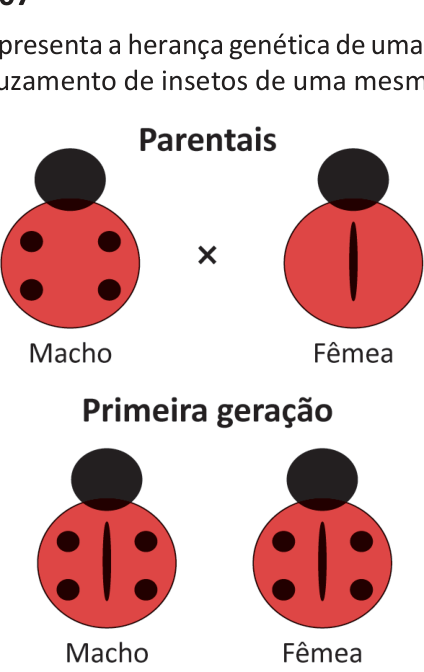
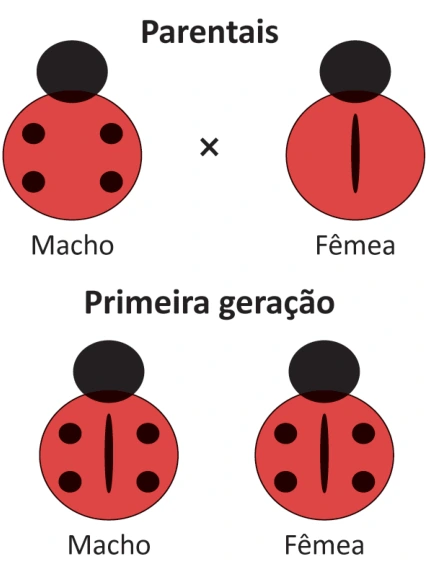
Ajusta recortes e revela o assunto junto com a resolução

diff --git a/index.html b/index.html
@@ -216,5 +216,5 @@ try {
   </details>
 </dialog>
 <button id="lightLauncher" class="light-launcher" type="button" aria-haspopup="dialog" aria-controls="lightFlashDialog" aria-expanded="false"><span aria-hidden="true">◇</span><span>Uma carta</span></button><dialog id="lightFlashDialog" class="light-flash-dialog" aria-label="Flashcards momentâneos"><div id="lightFlashRoot"></div></dialog>
-<button id="pageBack" class="page-back" type="button" aria-label="Voltar à página anterior" disabled><span aria-hidden="true">←</span><span>Voltar</span></button><dialog id="eveDictionary" aria-labelledby="eveDictionaryTitle"><header class="eve-dict-header"><div class="eve-dict-title"><h2 id="eveDictionaryTitle">Dicionário de leitura</h2><button type="button" id="eveDictClose" class="quiet" aria-label="Fechar dicionário">×</button></div><label for="eveDictSearch">Qual conceito tu quer entender?</label><input id="eveDictSearch" type="search" autocomplete="off" placeholder="Finalidade, rubrica, inferência…"><label for="eveDictKind">Tipo de cartão</label><select id="eveDictKind"><option value="all">Todos</option><option value="conceito">Conceitos</option><option value="genero">Gêneros</option><option value="recurso">Recursos de linguagem</option></select><p id="eveDictCount" role="status" aria-live="polite"></p></header><div id="eveDictResults"></div><footer>Definições e exemplos didáticos autorais. Consulta de apoio, sem alterar respostas.</footer></dialog><dialog id="dia2QuickGuide" aria-labelledby="d2QuickTitle"></dialog><dialog id="mlDialog" aria-labelledby="mlDialogTitle"></dialog><div id="toast" role="status" hidden></div><script src="study-settings.js?v=20261109-prisma"></script><script src="study-biology-data.js?v=20261110-biomas-heredogramas"></script><script src="study-basics-data.js?v=20261110-biologia"></script><script src="study-guide.js?v=20261110-guia-basico"></script><script src="choice-elimination.js?v=20261105-guia"></script><script src="offline-data.js?v=20261019-level-up"></script><script src="skills-data.js?v=20261019-level-up"></script><script src="flashcards-data.js?v=20261019-level-up"></script><script src="biology-data.js?v=20261020-bio-fuvest"></script><script src="flashcards.js?v=20261019-level-up"></script><script src="math-lessons.js?v=20261022-matrix-operations"></script><script src="skills.js?v=20261022-matrix-operations"></script><script src="readings-data.js?v=20261019-level-up"></script><script src="readings.js?v=20261105-linguagens"></script><script src="reading-media.js?v=20261104-perfis"></script><script src="linguagens.js?v=20261105-linguagens"></script><script src="portraits-data.js?v=20261106-guia-leitura"></script><script src="biblioteca-guia.js?v=20261108-redacao"></script><script src="thinkers.js?v=20261108-consulta"></script><script src="prisma.js?v=20261109-prisma"></script><script src="experience.js?v=20261109-prisma"></script><script src="profile.js?v=20261019-level-up"></script><script src="enem-data.js?v=20261020-fuvest-enem-completo"></script><script src="fuvest-data.js?v=20261020-bio-fuvest"></script><script src="enem-subjects-data.js?v=20261023-subjects"></script><script src="exam-subjects.js?v=20261111-natureza"></script><script src="fuvest.js?v=20261105-linguagens"></script><script src="enem-presentation-data.js?v=20261106-enunciado"></script><script src="enem-natureza-revisao-data.js?v=20261111-natureza"></script><script src="enem-layout.js?v=20261111-natureza"></script><script src="enem-solutions.js?v=20261104-biblioteca"></script><script src="linguagens-solutions.js?v=20261105-linguagens"></script><script src="enem.js?v=20261111-natureza"></script><script src="enem-sim.js?v=20261111-natureza"></script><script src="levelup-data.js?v=20261104-rounds"></script><script src="levelup.js?v=20261105-linguagens"></script><script src="study-areas.js?v=20261110-biologia-trilha"></script><script src="navigation.js?v=20261109-aulas"></script><script src="light-review-data.js?v=20261103-lockin"></script><script src="day1-practice-data.js?v=20261105-guia"></script><script src="day1-practice.js?v=20261103-day1"></script><script src="light-review.js?v=20261104-groups"></script><script src="enem-anatomy-data.js?v=20261103-anatomy"></script><script src="enem-anatomy.js?v=20261103-anatomy"></script><script src="vespera-data.js?v=20261106-vespera"></script><script src="vespera-percurso-data.js?v=20261107-percurso"></script><script src="vespera-repertorios-data.js?v=20261108-desenvolvimento"></script><script src="enem-exclusivas-data.js?v=1"></script><script src="vespera.js?v=20261110-exclusivas"></script><script src="consulta-rapida.js?v=20261110-busca"></script><script src="dia2-guia-data.js?v=20261110-transmissao"></script><script src="dia2-biologia-data.js?v=20261110-biomas-heredogramas"></script><script src="dia2-aulas-data.js?v=20261110-biomas-heredogramas"></script><script src="dia2-mapas-data.js?v=20261110-biomas-heredogramas"></script><script src="dia2-aulas-labs.js?v=20261109-aulas"></script><script src="dia2-conceitos-data.js?v=20261109-conceitos"></script><script src="enem-natureza-niveis.js?v=20261109-dificuldade-cn"></script><script src="dia2-conceitos.js?v=20261109-conceitos"></script><script src="dia2-mapas.js?v=20261110-passo-a-passo"></script><script src="dia2-conversoes.js?v=20261110-grandezas"></script><script src="dia2-temperatura.js?v=20261110-oficina"></script><script src="estudo-calor.js?v=1"></script><script src="estudo-labs.js?v=20261110-transmissao"></script><script src="estudo-dados.js?v=20261110-biomas-heredogramas"></script><script src="estudo.js?v=20261110-biologia-trilha"></script><script src="dia2-aulas.js?v=20261110-biomas-heredogramas"></script><script src="dia2-resolucoes-data.js?v=20261110-resolucoes"></script><script src="dia2-questoes-data.js?v=20261109-dia2"></script><script src="dia2-exercicios-data.js?v=20261109-fichas"></script><script src="dia2-apostas-data.js?v=20261110-apostas"></script><script src="dia2.js?v=20261111-natureza"></script><script src="math-lab-data.js?v=20261109-matematica"></script><script src="math-lab-model.js?v=20261109-calculo-mental"></script><script src="math-lab.js?v=20261109-calculo-mental"></script><script src="app.js?v=20261110-passo-a-passo"></script>
+<button id="pageBack" class="page-back" type="button" aria-label="Voltar à página anterior" disabled><span aria-hidden="true">←</span><span>Voltar</span></button><dialog id="eveDictionary" aria-labelledby="eveDictionaryTitle"><header class="eve-dict-header"><div class="eve-dict-title"><h2 id="eveDictionaryTitle">Dicionário de leitura</h2><button type="button" id="eveDictClose" class="quiet" aria-label="Fechar dicionário">×</button></div><label for="eveDictSearch">Qual conceito tu quer entender?</label><input id="eveDictSearch" type="search" autocomplete="off" placeholder="Finalidade, rubrica, inferência…"><label for="eveDictKind">Tipo de cartão</label><select id="eveDictKind"><option value="all">Todos</option><option value="conceito">Conceitos</option><option value="genero">Gêneros</option><option value="recurso">Recursos de linguagem</option></select><p id="eveDictCount" role="status" aria-live="polite"></p></header><div id="eveDictResults"></div><footer>Definições e exemplos didáticos autorais. Consulta de apoio, sem alterar respostas.</footer></dialog><dialog id="dia2QuickGuide" aria-labelledby="d2QuickTitle"></dialog><dialog id="mlDialog" aria-labelledby="mlDialogTitle"></dialog><div id="toast" role="status" hidden></div><script src="study-settings.js?v=20261109-prisma"></script><script src="study-biology-data.js?v=20261110-biomas-heredogramas"></script><script src="study-basics-data.js?v=20261110-biologia"></script><script src="study-guide.js?v=20261110-guia-basico"></script><script src="choice-elimination.js?v=20261105-guia"></script><script src="offline-data.js?v=20261019-level-up"></script><script src="skills-data.js?v=20261019-level-up"></script><script src="flashcards-data.js?v=20261019-level-up"></script><script src="biology-data.js?v=20261020-bio-fuvest"></script><script src="flashcards.js?v=20261019-level-up"></script><script src="math-lessons.js?v=20261022-matrix-operations"></script><script src="skills.js?v=20261022-matrix-operations"></script><script src="readings-data.js?v=20261019-level-up"></script><script src="readings.js?v=20261105-linguagens"></script><script src="reading-media.js?v=20261104-perfis"></script><script src="linguagens.js?v=20261105-linguagens"></script><script src="portraits-data.js?v=20261106-guia-leitura"></script><script src="biblioteca-guia.js?v=20261108-redacao"></script><script src="thinkers.js?v=20261108-consulta"></script><script src="prisma.js?v=20261109-prisma"></script><script src="experience.js?v=20261109-prisma"></script><script src="profile.js?v=20261019-level-up"></script><script src="enem-data.js?v=20261020-fuvest-enem-completo"></script><script src="fuvest-data.js?v=20261020-bio-fuvest"></script><script src="enem-subjects-data.js?v=20261023-subjects"></script><script src="exam-subjects.js?v=20261111-natureza"></script><script src="fuvest.js?v=20261105-linguagens"></script><script src="enem-presentation-data.js?v=20261106-enunciado"></script><script src="enem-natureza-revisao-data.js?v=20261111-natureza"></script><script src="enem-layout.js?v=20261111-natureza"></script><script src="enem-solutions.js?v=20261104-biblioteca"></script><script src="linguagens-solutions.js?v=20261105-linguagens"></script><script src="enem.js?v=20261111-natureza-2"></script><script src="enem-sim.js?v=20261111-natureza"></script><script src="levelup-data.js?v=20261104-rounds"></script><script src="levelup.js?v=20261105-linguagens"></script><script src="study-areas.js?v=20261110-biologia-trilha"></script><script src="navigation.js?v=20261109-aulas"></script><script src="light-review-data.js?v=20261103-lockin"></script><script src="day1-practice-data.js?v=20261105-guia"></script><script src="day1-practice.js?v=20261103-day1"></script><script src="light-review.js?v=20261104-groups"></script><script src="enem-anatomy-data.js?v=20261103-anatomy"></script><script src="enem-anatomy.js?v=20261103-anatomy"></script><script src="vespera-data.js?v=20261106-vespera"></script><script src="vespera-percurso-data.js?v=20261107-percurso"></script><script src="vespera-repertorios-data.js?v=20261108-desenvolvimento"></script><script src="enem-exclusivas-data.js?v=1"></script><script src="vespera.js?v=20261110-exclusivas"></script><script src="consulta-rapida.js?v=20261110-busca"></script><script src="dia2-guia-data.js?v=20261110-transmissao"></script><script src="dia2-biologia-data.js?v=20261110-biomas-heredogramas"></script><script src="dia2-aulas-data.js?v=20261110-biomas-heredogramas"></script><script src="dia2-mapas-data.js?v=20261110-biomas-heredogramas"></script><script src="dia2-aulas-labs.js?v=20261109-aulas"></script><script src="dia2-conceitos-data.js?v=20261109-conceitos"></script><script src="enem-natureza-niveis.js?v=20261109-dificuldade-cn"></script><script src="dia2-conceitos.js?v=20261109-conceitos"></script><script src="dia2-mapas.js?v=20261110-passo-a-passo"></script><script src="dia2-conversoes.js?v=20261110-grandezas"></script><script src="dia2-temperatura.js?v=20261110-oficina"></script><script src="estudo-calor.js?v=1"></script><script src="estudo-labs.js?v=20261110-transmissao"></script><script src="estudo-dados.js?v=20261110-biomas-heredogramas"></script><script src="estudo.js?v=20261110-biologia-trilha"></script><script src="dia2-aulas.js?v=20261110-biomas-heredogramas"></script><script src="dia2-resolucoes-data.js?v=20261110-resolucoes"></script><script src="dia2-questoes-data.js?v=20261109-dia2"></script><script src="dia2-exercicios-data.js?v=20261109-fichas"></script><script src="dia2-apostas-data.js?v=20261110-apostas"></script><script src="dia2.js?v=20261111-natureza"></script><script src="math-lab-data.js?v=20261109-matematica"></script><script src="math-lab-model.js?v=20261109-calculo-mental"></script><script src="math-lab.js?v=20261109-calculo-mental"></script><script src="app.js?v=20261110-passo-a-passo"></script>
 </body></html>

diff --git a/enem.js b/enem.js
@@ -71,7 +71,7 @@
      ${math.guided?'<button type="button" class="outline" data-enem="math-guide">Resolver guiado ↗</button>':''}
      ${can?'<button type="button" class="quiet" data-enem="math-note">Registrar erro ou chute</button>':''}
      <button type="button" class="quiet" data-enem="math-save" aria-pressed="${globalThis.FurgMathLab.isSaved(q.id)}">${globalThis.FurgMathLab.isSaved(q.id)?'★ Na coleção':'☆ Salvar na coleção'}</button></div>`:'';
-    root.innerHTML=`<article class="enem-question panel" data-question-id="${esc(q.id)}"><div class="enem-toolbar"><span>Questão ${index+1} de ${list.length.toLocaleString('pt-BR')}</span><button class="quiet" data-enem="favorite" aria-pressed="${!!s.favorites[q.id]}">${s.favorites[q.id]?'★ Favorita':'☆ Favoritar'}</button></div><div class="enem-meta">${subjectsOf(q).map(id=>`<span class="tag">${esc(subjectLabels[id])}</span>`).join('')}<span>${esc(labels[q.area]||q.area)}</span><span>ENEM ${q.year} · ${esc(q.applicationLabel||q.application)}</span>${review?.topic?`<span class="tag">${esc(review.topic)}</span>`:''}${math?`<span class="tag">${globalThis.FurgMathLabModel.levels[math.level]} · ${math.guided?'didático':'sugerido'}</span>`:''}${difficulty}${q.language?`<span>${q.language==='ingles'?'Inglês':'Espanhol'}</span>`:''}${q.canceled?'<span class="enem-canceled">Anulada</span>':''}</div>${globalThis.FurgExamSubjects.editor('enem',q,s,subjectLabels)}${mathTools}<h3 id="enemTitle" tabindex="-1">Questão ${q.index}</h3>${q.quality?.note?`<p class="enem-quality">${esc(q.quality.note)}</p>`:''}${body(q)}<p class="enem-answer-label">Alternativas · qual tu escolhe?</p><div class="enem-options">${view.alternatives.map(a=>`<button class="enem-option ${selected===a.letter?'selected':''} ${show&&can&&a.letter===q.answer?'correct':''} ${show&&can&&selected===a.letter&&!correct?'wrong':''}" data-enem="choose" data-letter="${a.letter}" aria-pressed="${selected===a.letter}" ${answered?'disabled':''}><b>${a.letter}</b><span>${markdown(a.text)}${image(a.file,'Alternativa '+a.letter)}</span></button>`).join('')}</div>${!can?`<p class="enem-quality">${q.canceled?'Questão anulada no gabarito oficial. Ela fica disponível para estudo e não entra na taxa de acertos.':'A transcrição ou o gabarito deste item está em conferência. O original acompanha a questão.'}</p>`:''}<div class="enem-submit"><button class="primary" id="enemConfirm" data-enem="confirm" ${answered||!choice||!can?'disabled':''}>${answered?'Resposta registrada':'Confirmar resposta'}</button><button class="quiet" data-enem="show" ${show||!can?'disabled':''}>Ver gabarito</button><button class="${show?'primary':'outline'} enem-next-question" data-enem="next" ${index===list.length-1?'disabled':''}>Próxima questão →</button><small>A–E para marcar · Enter para responder</small></div>${show&&can?`<div class="enem-feedback ${answered?correct?'correct':'wrong':''}" role="status"><strong>${answered?correct?'Tu acertou!':'A resposta correta é '+q.answer+'.':'Gabarito: alternativa '+q.answer+'.'}</strong><p>Resposta conferida com o gabarito oficial.</p><button class="text-link" data-enem="retry">Refazer questão</button></div>${globalThis.FurgEnemLayout?.solution(q,markdown,image)||''}`:''}<div class="enem-note"><label for="enemNote">Meu raciocínio <small id="enemNoteStatus">Salvo neste navegador</small></label><textarea id="enemNote" rows="3" maxlength="20000" placeholder="Uma ideia, uma conta ou algo para revisar…"></textarea></div><div class="enem-source"><span>ENEM ${q.year}${source.booklet?' · Caderno '+esc(source.booklet):''}</span>${link(source.pdf)?`<a href="${esc(link(source.pdf))}${source.page&&!String(source.pdf).includes('#')?'#page='+source.page:''}" target="_blank" rel="noopener">Prova original ↗</a>`:''}${link(source.answerPdf)?`<a href="${esc(link(source.answerPdf))}" target="_blank" rel="noopener">Gabarito oficial ↗</a>`:''}</div>${source.images?.length?`<details class="enem-original"><summary>${source.annotated?'Conferir original (inclui marcações de resposta)':'Conferir o recorte original'}</summary>${source.images.map(p=>image(p,'Recorte original da questão')).join('')}</details>`:''}<div class="enem-navigation"><button class="quiet" data-enem="previous" ${index===0?'disabled':''}>← Anterior</button><div class="enem-map">${list.slice(start,start+7).map((q,i)=>`<button data-enem="jump" data-index="${start+i}" ${start+i===index?'aria-current="step"':''} aria-label="Posição ${start+i+1}">${start+i+1}</button>`).join('')}</div><button class="outline" data-enem="next" ${index===list.length-1?'disabled':''}>Próxima →</button></div></article>`;$('enemNote').value=s.notes[q.id]||'';$('enemNote').oninput=()=>{s.notes[q.id]=$('enemNote').value;$('enemNoteStatus').textContent=adapter.save()?'Anotação salva.':'Não foi possível salvar.';};globalThis.FurgExamSubjects.bind('enem',q,s,subjectLabels,adapter,()=>filter(false));globalThis.FurgElimination?.decorate(root,{scope:'enem',id:q.id,selector:'[data-enem="choose"]',selected,locked:!!show,onClear:()=>{choice=null;question();}});if(focus){$('enemTitle').focus({preventScroll:true});$('enemTitle').scrollIntoView({behavior:globalThis.FurgUI?.reducedMotion()?'auto':'smooth',block:'start'});}
+    root.innerHTML=`<article class="enem-question panel" data-question-id="${esc(q.id)}"><div class="enem-toolbar"><span>Questão ${index+1} de ${list.length.toLocaleString('pt-BR')}</span><button class="quiet" data-enem="favorite" aria-pressed="${!!s.favorites[q.id]}">${s.favorites[q.id]?'★ Favorita':'☆ Favoritar'}</button></div><div class="enem-meta">${subjectsOf(q).map(id=>`<span class="tag">${esc(subjectLabels[id])}</span>`).join('')}<span>${esc(labels[q.area]||q.area)}</span><span>ENEM ${q.year} · ${esc(q.applicationLabel||q.application)}</span>${show&&review?.topic?`<span class="tag">${esc(review.topic)}</span>`:''}${math?`<span class="tag">${globalThis.FurgMathLabModel.levels[math.level]} · ${math.guided?'didático':'sugerido'}</span>`:''}${difficulty}${q.language?`<span>${q.language==='ingles'?'Inglês':'Espanhol'}</span>`:''}${q.canceled?'<span class="enem-canceled">Anulada</span>':''}</div>${globalThis.FurgExamSubjects.editor('enem',q,s,subjectLabels)}${mathTools}<h3 id="enemTitle" tabindex="-1">Questão ${q.index}</h3>${q.quality?.note?`<p class="enem-quality">${esc(q.quality.note)}</p>`:''}${body(q)}<p class="enem-answer-label">Alternativas · qual tu escolhe?</p><div class="enem-options">${view.alternatives.map(a=>`<button class="enem-option ${selected===a.letter?'selected':''} ${show&&can&&a.letter===q.answer?'correct':''} ${show&&can&&selected===a.letter&&!correct?'wrong':''}" data-enem="choose" data-letter="${a.letter}" aria-pressed="${selected===a.letter}" ${answered?'disabled':''}><b>${a.letter}</b><span>${markdown(a.text)}${image(a.file,'Alternativa '+a.letter)}</span></button>`).join('')}</div>${!can?`<p class="enem-quality">${q.canceled?'Questão anulada no gabarito oficial. Ela fica disponível para estudo e não entra na taxa de acertos.':'A transcrição ou o gabarito deste item está em conferência. O original acompanha a questão.'}</p>`:''}<div class="enem-submit"><button class="primary" id="enemConfirm" data-enem="confirm" ${answered||!choice||!can?'disabled':''}>${answered?'Resposta registrada':'Confirmar resposta'}</button><button class="quiet" data-enem="show" ${show||!can?'disabled':''}>Ver gabarito</button><button class="${show?'primary':'outline'} enem-next-question" data-enem="next" ${index===list.length-1?'disabled':''}>Próxima questão →</button><small>A–E para marcar · Enter para responder</small></div>${show&&can?`<div class="enem-feedback ${answered?correct?'correct':'wrong':''}" role="status"><strong>${answered?correct?'Tu acertou!':'A resposta correta é '+q.answer+'.':'Gabarito: alternativa '+q.answer+'.'}</strong><p>Resposta conferida com o gabarito oficial.</p><button class="text-link" data-enem="retry">Refazer questão</button></div>${globalThis.FurgEnemLayout?.solution(q,markdown,image)||''}`:''}<div class="enem-note"><label for="enemNote">Meu raciocínio <small id="enemNoteStatus">Salvo neste navegador</small></label><textarea id="enemNote" rows="3" maxlength="20000" placeholder="Uma ideia, uma conta ou algo para revisar…"></textarea></div><div class="enem-source"><span>ENEM ${q.year}${source.booklet?' · Caderno '+esc(source.booklet):''}</span>${link(source.pdf)?`<a href="${esc(link(source.pdf))}${source.page&&!String(source.pdf).includes('#')?'#page='+source.page:''}" target="_blank" rel="noopener">Prova original ↗</a>`:''}${link(source.answerPdf)?`<a href="${esc(link(source.answerPdf))}" target="_blank" rel="noopener">Gabarito oficial ↗</a>`:''}</div>${source.images?.length?`<details class="enem-original"><summary>${source.annotated?'Conferir original (inclui marcações de resposta)':'Conferir o recorte original'}</summary>${source.images.map(p=>image(p,'Recorte original da questão')).join('')}</details>`:''}<div class="enem-navigation"><button class="quiet" data-enem="previous" ${index===0?'disabled':''}>← Anterior</button><div class="enem-map">${list.slice(start,start+7).map((q,i)=>`<button data-enem="jump" data-index="${start+i}" ${start+i===index?'aria-current="step"':''} aria-label="Posição ${start+i+1}">${start+i+1}</button>`).join('')}</div><button class="outline" data-enem="next" ${index===list.length-1?'disabled':''}>Próxima →</button></div></article>`;$('enemNote').value=s.notes[q.id]||'';$('enemNote').oninput=()=>{s.notes[q.id]=$('enemNote').value;$('enemNoteStatus').textContent=adapter.save()?'Anotação salva.':'Não foi possível salvar.';};globalThis.FurgExamSubjects.bind('enem',q,s,subjectLabels,adapter,()=>filter(false));globalThis.FurgElimination?.decorate(root,{scope:'enem',id:q.id,selector:'[data-enem="choose"]',selected,locked:!!show,onClear:()=>{choice=null;question();}});if(focus){$('enemTitle').focus({preventScroll:true});$('enemTitle').scrollIntoView({behavior:globalThis.FurgUI?.reducedMotion()?'auto':'smooth',block:'start'});}
   }
   function refreshScore(){const m=metrics(bankSpace);$('enemAnswered').innerHTML=m.answered+'<small> respondidas</small>';$('enemAccuracy').textContent=m.graded?Math.round(m.correct/m.graded*100)+'% de acertos na 1ª tentativa':'Tua primeira resposta começa aqui.';}
   function choose(letter){const q=list[index];if(!q||progress().answers[q.id]?.choice&&!retry||!/^[A-E]$/.test(letter))return;choice=letter;question();}
